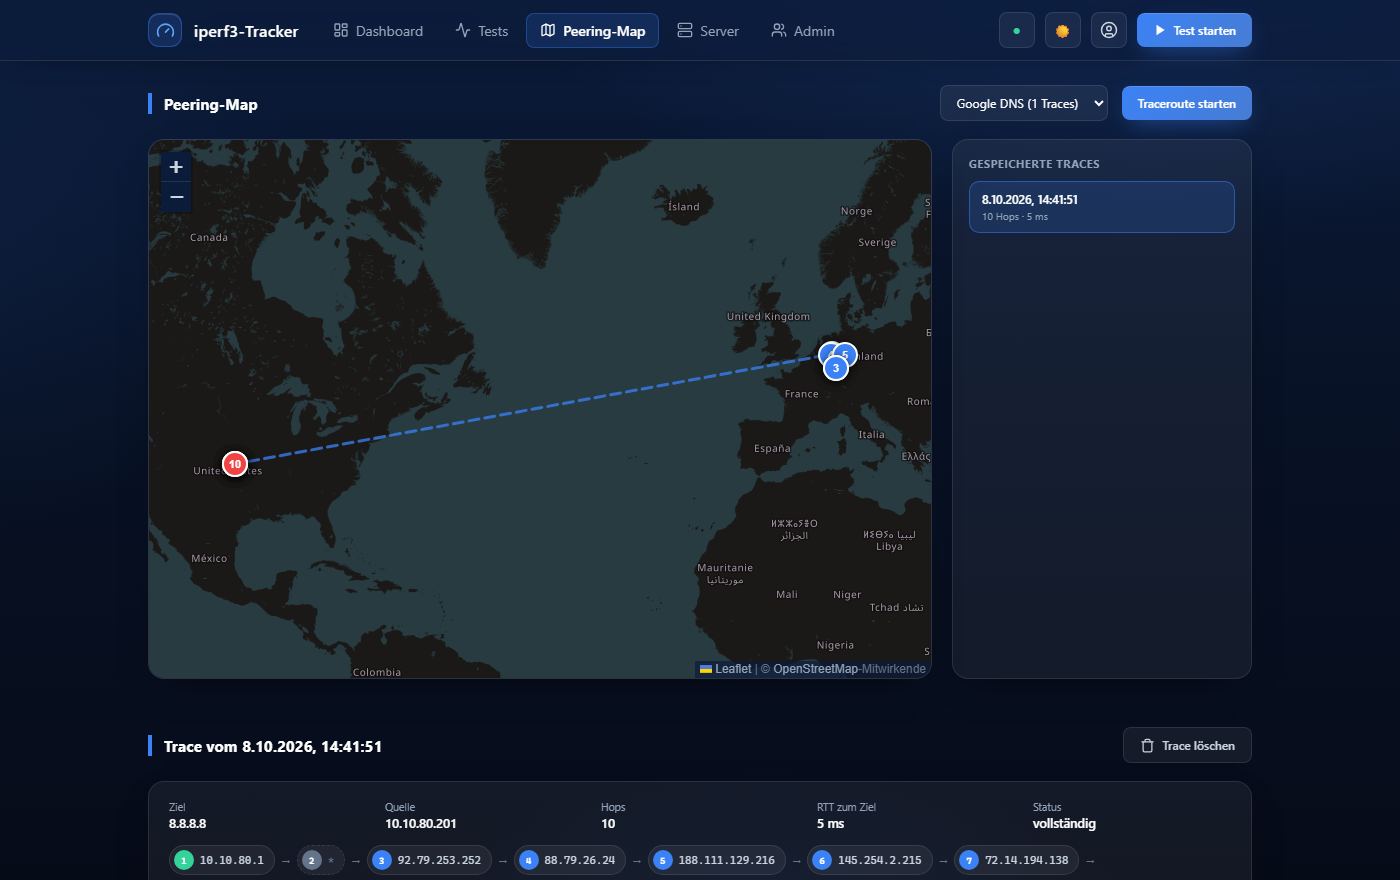
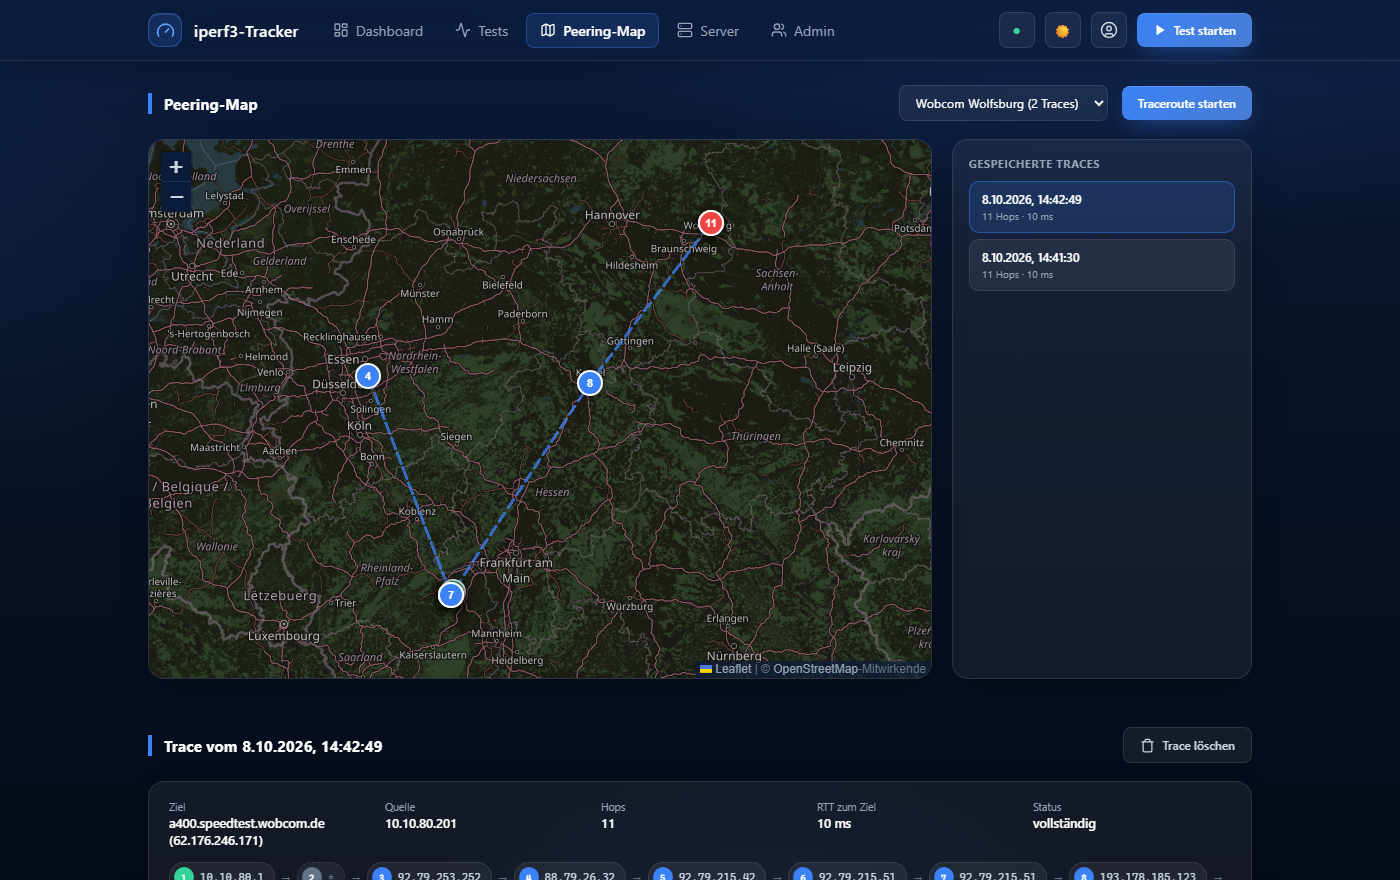
Translate documentation to English and refresh screenshots
README, config.example.yaml, the generated default config.yaml and the
comments in the Docker and ignore files are now in English. Screenshots
are refreshed from a running instance (peering map with a real route,
corrected server description); server-hell.png is renamed to
server-light.png.

diff --git a/internal/config/config.go b/internal/config/config.go
@@ -84,8 +84,8 @@ func (l LogConfig) SlogLevel() slog.Level {
 
 // defaultYAML ist der Inhalt einer neu erzeugten config.yaml; %s ist der
 // zufällig erzeugte Token-Schlüssel.
-const defaultYAML = `# iperf3-Tracker – Konfiguration
-# Einzelne Werte lassen sich per Umgebungsvariable überschreiben:
+const defaultYAML = `# iperf3-Tracker – configuration
+# Individual values can be overridden with environment variables:
 #   LISTEN_ADDR, DB_PATH, SECRET_KEY, SCHEDULER_ENABLED, IPERF3_PATH, IPERF3_AUTO_INSTALL, GEOIP_PATH, LOG_LEVEL
 
 web:
@@ -95,27 +95,28 @@ storage:
   path: "data/iperf3-tracker.db"
 
 auth:
-  # Schlüssel zum Signieren der Login-Tokens. Beim ersten Start zufällig
-  # erzeugt; eine Änderung macht alle bestehenden Anmeldungen ungültig.
+  # Key used to sign login tokens. Generated randomly on first start;
+  # changing it invalidates all existing logins.
   secret_key: "%s"
 
 scheduler:
   enabled: true
 
 iperf:
-  # Pfad zur iperf3-Binary (mind. Version 3.17); leer = automatisch suchen.
+  # Path to the iperf3 binary (version 3.17 or newer); empty = auto-detect.
   path: ""
-  # Fehlt iperf3, beim Start ohne Nachfrage installieren (winget bzw. Paketmanager).
-  # Standard: aus – die Oberfläche fragt einen Admin vor der Installation.
+  # Install iperf3 on startup without asking if it is missing (winget or package manager).
+  # Default: off – the web interface asks an administrator before installing.
   auto_install: false
 
 geoip:
-  # GeoLite2-City-Datenbank für die Standorte auf der Karte (relativ zu dieser Datei).
+  # GeoLite2-City database for the locations on the map (relative to this file).
   path: "geoip/GeoLite2-City.mmdb"
 
 log:
   level: "info"
 `
+
 
 // CreateDefault schreibt eine Standard-config.yaml mit frisch erzeugtem
 // Token-Schlüssel nach path und gibt die geparste Konfiguration zurück.

diff --git a/README.md b/README.md
@@ -1,62 +1,61 @@
 # iperf3-Tracker
 
-Misst regelmäßig die Bandbreite zu iperf3-Servern, speichert die Ergebnisse
-historisch und zeigt den Netzwerkpfad auf einer Karte. Eine einzelne
-Go-Binary liefert API und Oberfläche aus – ohne weitere Laufzeitumgebung oder
-Webserver.
+Measures bandwidth to iperf3 servers on a schedule, keeps the results as
+history and shows the network path on a map. A single Go binary serves both
+the API and the web interface – no additional runtime or web server needed.
 
 ![Dashboard](_screenshots/dashboard.png)
 
-## Funktionen
+## Features
 
-- **Dashboard** – Kennzahlen, Download-/Upload-Verlauf je Server mit
-  Schwellwerten, Live-Fortschritt laufender Tests
-- **Tests** – Test mit beliebigen Parametern starten (TCP/UDP, Download,
-  Upload, bidirektional, parallele Streams, UDP-Zielbandbreite), Live-Anzeige,
-  Testverlauf mit Details und iperf3-Rohausgabe
-- **Zeitplan** – Tests je Server im eingestellten Intervall, optional mit
-  anschließender Traceroute (Auto-Trace)
-- **Peering-Map** – Traceroute live auf der Karte, Standorte aus der
-  GeoLite2-Datenbank (fehlende Standorte werden aus Nachbar-Hops geschätzt),
-  Pfad- und Hop-Tabelle auch für private Netze
-- **Server-Profile** – eigene oder öffentliche iperf3-Server (Auswahlliste)
-- **Administration** – Benutzer, Bereinigung alter Daten, Datenbank-Statistik
-- Hell/Dunkel, mobil nutzbar, Oberfläche auf Deutsch
+- **Dashboard** – key figures, download/upload history per server with
+  thresholds, live progress of running tests
+- **Tests** – run tests with any parameters (TCP/UDP, download, upload,
+  bidirectional, parallel streams, UDP target bandwidth), live view, test
+  history with details and raw iperf3 output
+- **Scheduling** – tests per server at a configurable interval, optionally
+  followed by a traceroute (auto-trace)
+- **Peering map** – live traceroute on a map with locations from the
+  GeoLite2 database (missing locations are estimated from neighbouring hops),
+  path and hop table also for private networks
+- **Server profiles** – your own or public iperf3 servers (selection list)
+- **Administration** – users, cleanup of old data, database statistics
+- Light/dark theme, mobile friendly; the user interface is in German
 
-| Tests | Peering-Map | Server (hell) |
+| Tests | Peering map | Servers (light theme) |
 |---|---|---|
-| ![Tests](_screenshots/tests.png) | ![Peering-Map](_screenshots/peering-map.png) | ![Server](_screenshots/server-hell.png) |
+| ![Tests](_screenshots/tests.png) | ![Peering map](_screenshots/peering-map.png) | ![Servers](_screenshots/server-light.png) |
 
-## Voraussetzungen
+## Requirements
 
-- **iperf3 ab Version 3.17** (wegen `--json-stream`). Fehlt iperf3, bietet die
-  Oberfläche Administratoren nach der Anmeldung die Installation an – unter
-  Windows per winget, unter Linux über den vorhandenen Paketmanager (apt-get,
-  dnf, yum, zypper, apk, pacman; ohne Root über `sudo -n`). Ohne Nachfrage beim
-  Start installieren: `iperf.auto_install: true` (z. B. für Server ohne
-  Oberfläche). Manuell:
+- **iperf3 version 3.17 or newer** (for `--json-stream`). If iperf3 is
+  missing, the web interface offers administrators to install it after login –
+  via winget on Windows, via the available package manager on Linux (apt-get,
+  dnf, yum, zypper, apk, pacman; `sudo -n` when not running as root). To
+  install without asking on startup, set `iperf.auto_install: true` (e.g. for
+  servers where nobody uses the web interface). Manual installation:
   - Windows: `winget install ar51an.iPerf3`
-  - Linux: Paket `iperf3` der Distribution, sofern mindestens 3.17
-    (z. B. Debian 13: `apt install iperf3`)
-- **tracert** (Windows, vorinstalliert) bzw. **traceroute** (Linux)
-- Zum Bauen: **Go 1.24** oder neuer
+  - Linux: the distribution's `iperf3` package, if it is at least 3.17
+    (e.g. Debian 13: `apt install iperf3`)
+- **tracert** (Windows, built in) or **traceroute** (Linux)
+- To build: **Go 1.24** or newer
 
-## Schnellstart (Windows)
+## Quick start (Windows)
 
 ```cmd
 start.cmd
 ```
 
-Baut `_release\iperf3-tracker.exe` beim ersten Aufruf, startet den Dienst und
-öffnet http://localhost:8000. Nach Code-Änderungen neu bauen mit
-`start.cmd neu` oder `build.cmd release`.
+Builds `_release\iperf3-tracker.exe` on the first run, starts the service and
+opens http://localhost:8000. After code changes, rebuild with `start.cmd neu`
+or `build.cmd release`.
 
-Erste Anmeldung: **`admin` / `admin123`** – danach über das Benutzermenü
-(Personen-Symbol oben rechts) **„Passwort ändern“**.
+First login: **`admin` / `admin123`** – then change the password via the user
+menu (person icon at the top right, "Passwort ändern").
 
-Die Binary lässt sich auch direkt per Doppelklick starten. `config.yaml` und
-die Datenbank (`data\`) werden beim ersten Start neben der Binary angelegt;
-`build.cmd` legt die GeoIP-Datenbank in `_release\geoip\` ab.
+The binary can also be started directly by double-click. `config.yaml` and
+the database (`data\`) are created next to the binary on first start;
+`build.cmd` places the GeoIP database in `_release\geoip\`.
 
 ## Docker
 
@@ -64,51 +63,51 @@ die Datenbank (`data\`) werden beim ersten Start neben der Binary angelegt;
 docker compose up -d --build
 ```
 
-Ein Container mit iperf3 3.18 und traceroute (Debian trixie); Konfiguration
-und Datenbank liegen im Volume `iperf-data`. Oberfläche unter
+One container with iperf3 3.18 and traceroute (Debian trixie); configuration
+and database live in the `iperf-data` volume. The interface is available at
 `http://<host>:8000`.
 
-> Die Docker-Variante ist vorbereitet, aber noch nicht getestet.
+> The Docker setup is prepared but not tested yet.
 
-## Konfiguration
+## Configuration
 
-`config.yaml` (siehe [config.example.yaml](config.example.yaml)); einzelne
-Werte lassen sich per Umgebungsvariable überschreiben:
+`config.yaml` (see [config.example.yaml](config.example.yaml)); individual
+values can be overridden with environment variables:
 
-| Einstellung | Umgebungsvariable | Standard |
+| Setting | Environment variable | Default |
 |---|---|---|
 | `web.listen` | `LISTEN_ADDR` | `0.0.0.0:8000` |
 | `storage.path` | `DB_PATH` | `data/iperf3-tracker.db` |
-| `auth.secret_key` | `SECRET_KEY` | beim ersten Start zufällig erzeugt |
+| `auth.secret_key` | `SECRET_KEY` | randomly generated on first start |
 | `scheduler.enabled` | `SCHEDULER_ENABLED` | `true` |
-| `iperf.path` | `IPERF3_PATH` | automatisch (PATH, winget-Pfad) |
-| `iperf.auto_install` | `IPERF3_AUTO_INSTALL` | `false` (Oberfläche fragt nach) |
+| `iperf.path` | `IPERF3_PATH` | auto-detected (PATH, winget location) |
+| `iperf.auto_install` | `IPERF3_AUTO_INSTALL` | `false` (the web interface asks first) |
 | `geoip.path` | `GEOIP_PATH` | `geoip/GeoLite2-City.mmdb` |
 | `log.level` | `LOG_LEVEL` | `info` |
 
-Relative Pfade beziehen sich auf das Verzeichnis der `config.yaml`.
+Relative paths are resolved against the directory of `config.yaml`.
 
-## Entwicklung
+## Development
 
 ```cmd
 go test ./...
 go run ./cmd/iperf3-tracker
 ```
 
-| Verzeichnis | Inhalt |
+| Directory | Contents |
 |---|---|
-| `cmd/iperf3-tracker` | Einstiegspunkt |
-| `internal/web` | HTTP-API, Live-Trace (SSE), eingebettete Oberfläche (`static/`) |
-| `internal/iperf` | iperf3-Ausführung und Auswertung von `--json-stream` |
-| `internal/trace` | tracert/traceroute, GeoIP, Standort-Interpolation |
-| `internal/scheduler` | Zeitplan je Server, Auto-Trace |
-| `internal/store`, `internal/db` | SQLite (reiner Go-Treiber, kein CGO) |
-| `geoip/` | GeoLite2-City-Datenbank |
+| `cmd/iperf3-tracker` | entry point |
+| `internal/web` | HTTP API, live trace (server-sent events), embedded web interface (`static/`) |
+| `internal/iperf` | running iperf3, evaluating `--json-stream`, installation |
+| `internal/trace` | tracert/traceroute, GeoIP, location interpolation |
+| `internal/scheduler` | per-server schedule, auto-trace |
+| `internal/store`, `internal/db` | SQLite (pure Go driver, no CGO) |
+| `geoip/` | GeoLite2-City database |
 
-Die Oberfläche folgt der Designsprache des Spherifyer und lädt Chart.js und
-Leaflet per CDN; die Karte nutzt OpenStreetMap-Kacheln.
+The web interface follows the Spherifyer design language and loads Chart.js
+and Leaflet from a CDN; the map uses OpenStreetMap tiles.
 
-## GeoIP-Hinweis
+## GeoIP notice
 
-Enthält GeoLite2-Daten von MaxMind, verfügbar unter
+This product includes GeoLite2 data created by MaxMind, available from
 https://www.maxmind.com.
